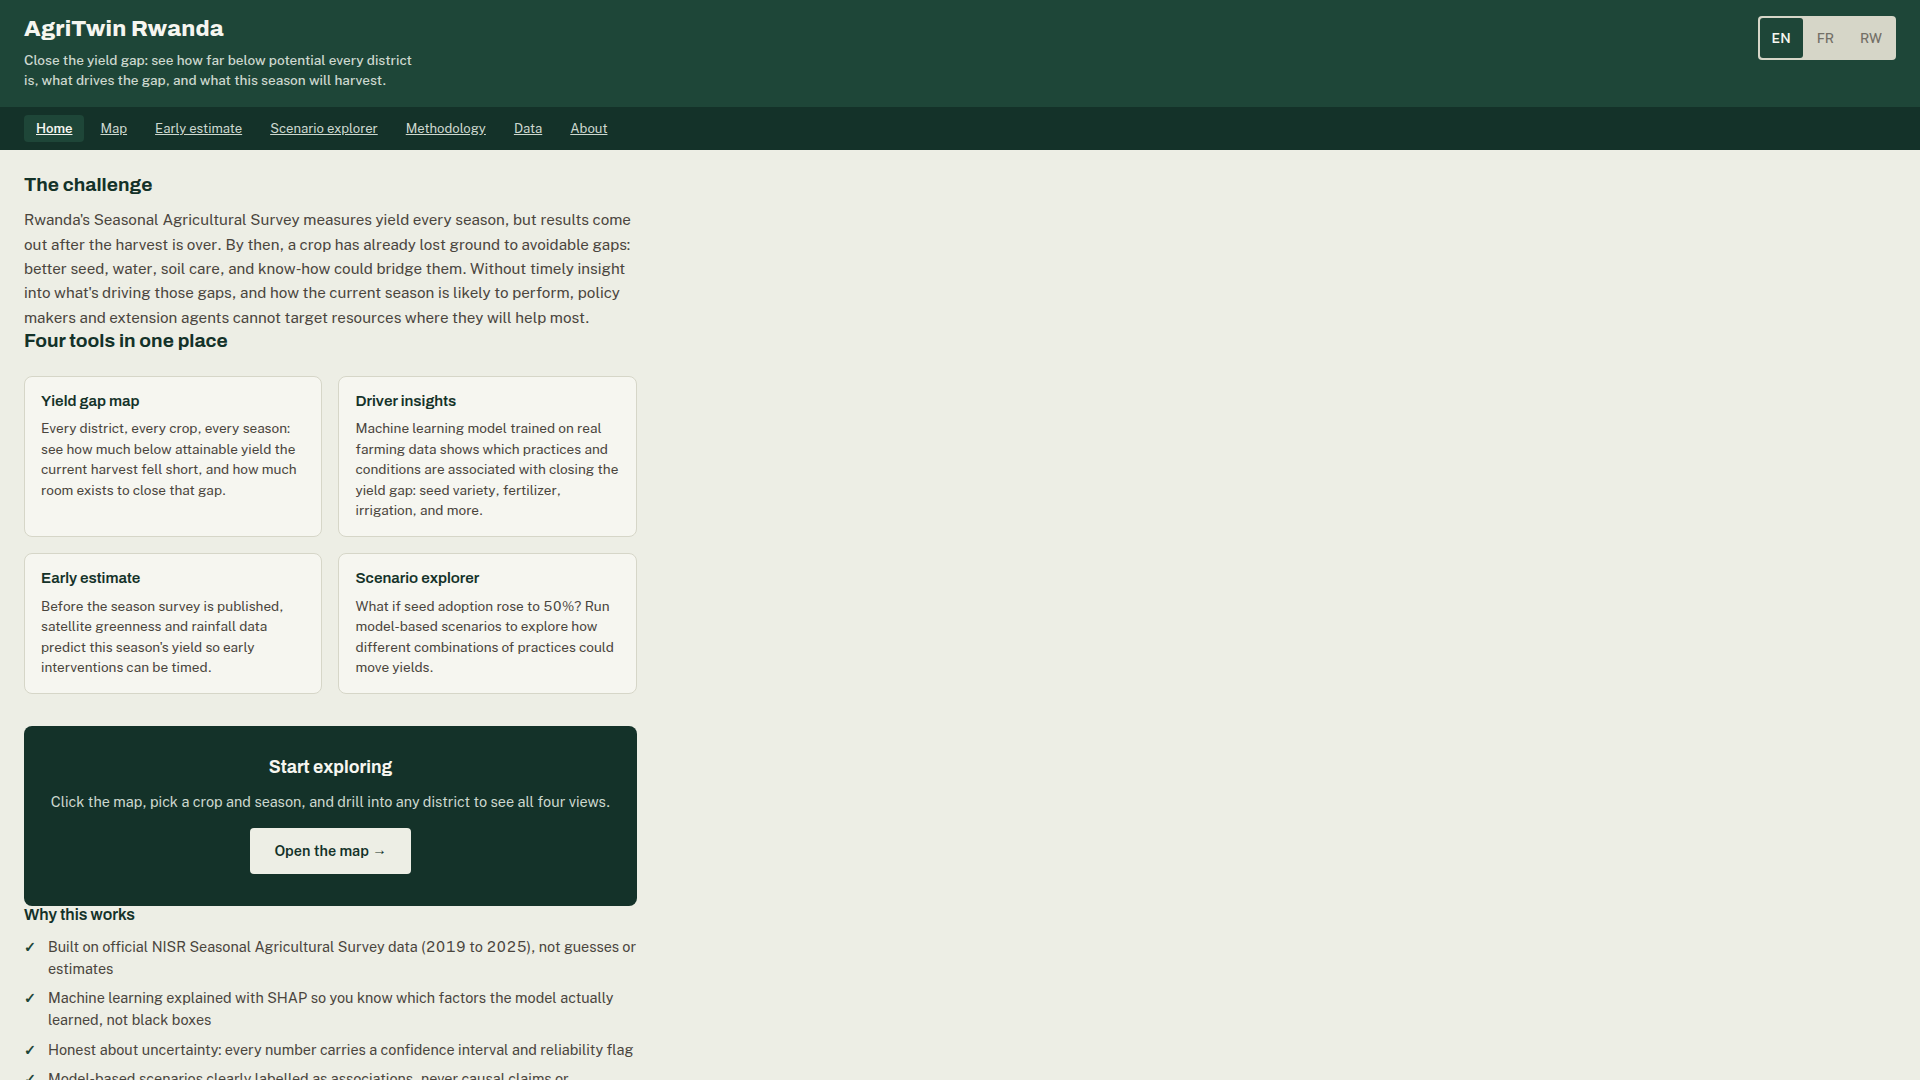
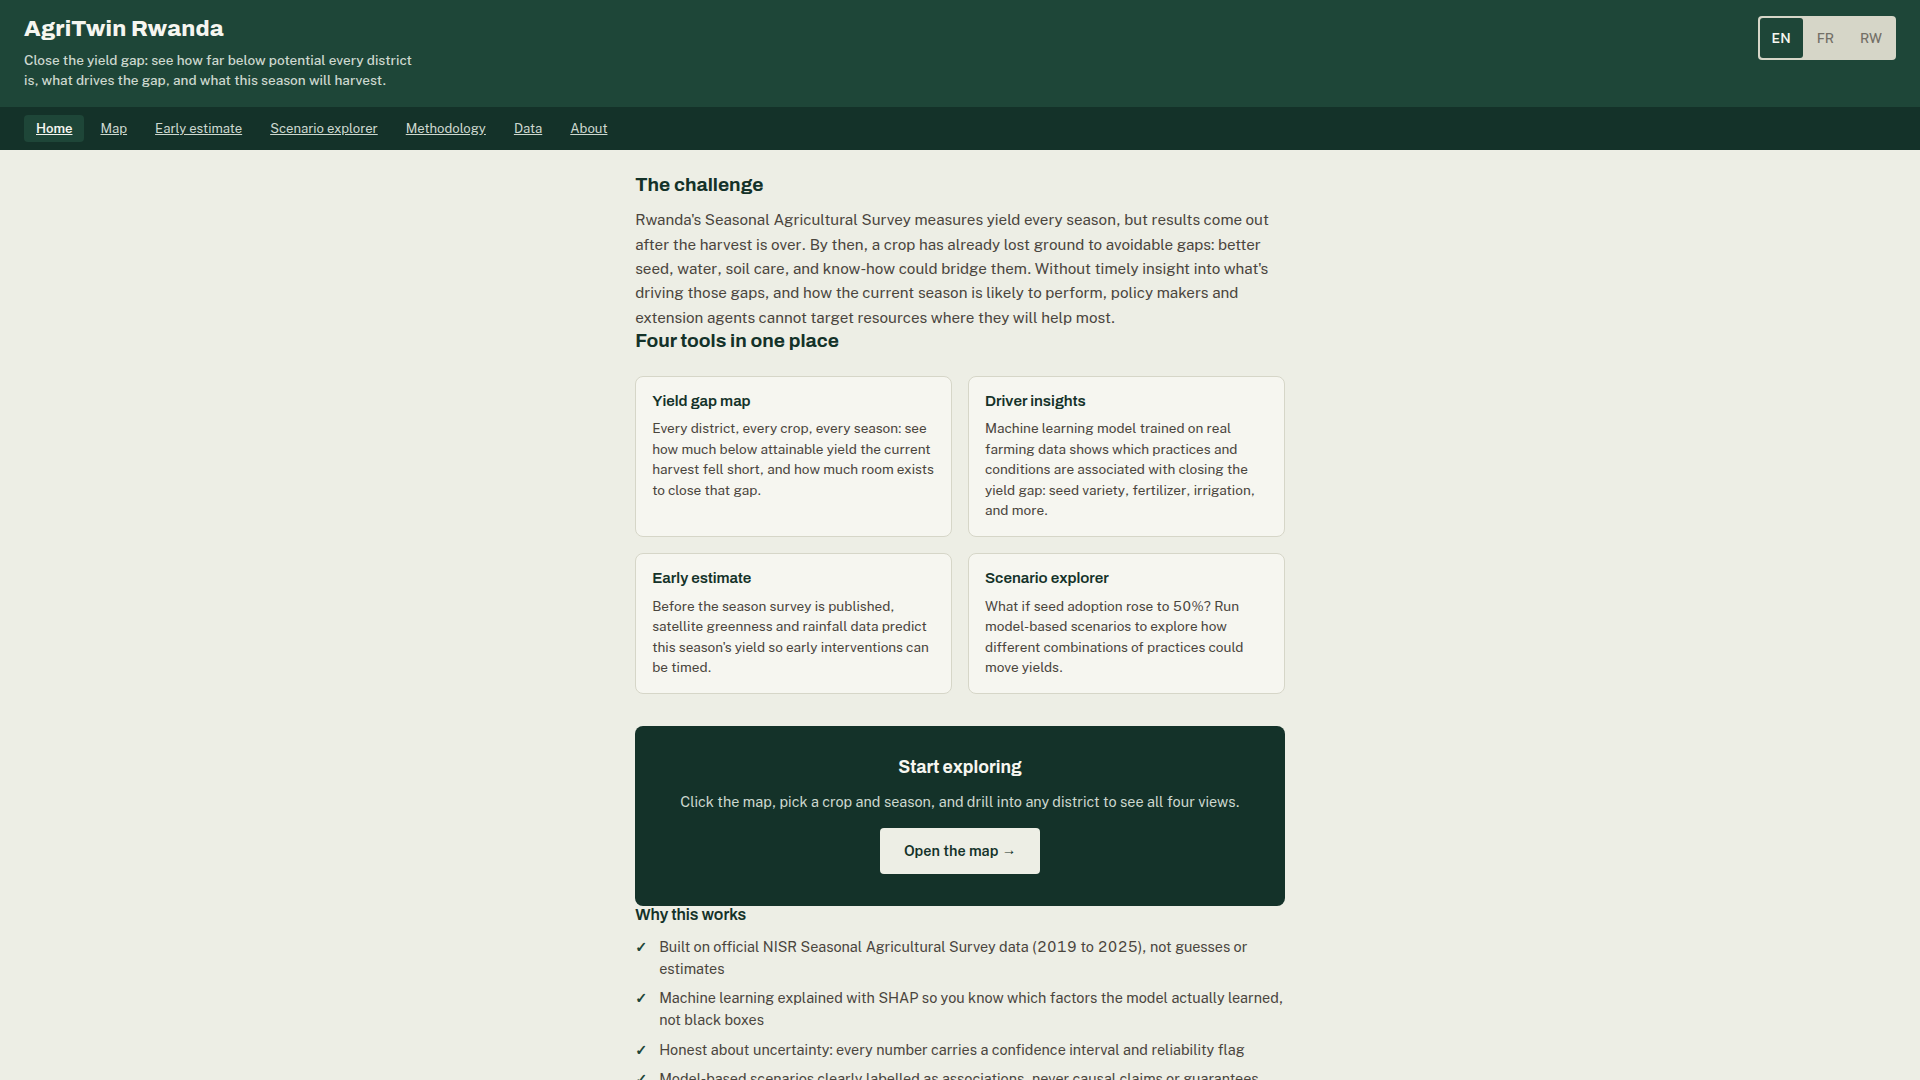
fix: center narrow-page content instead of leaving it flush-left
The .narrow max-width (72ch) worked, but nothing centered the block:
in a flex column, an unfilled child sits at flex-start (left) by
default, so home/methodology/about looked half-width with a big empty
void on the right. Add margin: 0 auto + width: 100% to center it.

Retook all 8 screenshots with the fix.

diff --git a/web/src/styles/shared.css b/web/src/styles/shared.css
@@ -62,7 +62,9 @@
 }
 
 .page-content.narrow {
-  max-width: 72ch;
+  max-width: 76ch;
+  width: 100%;
+  margin: 0 auto;
 }
 
 .page-content h2 {
